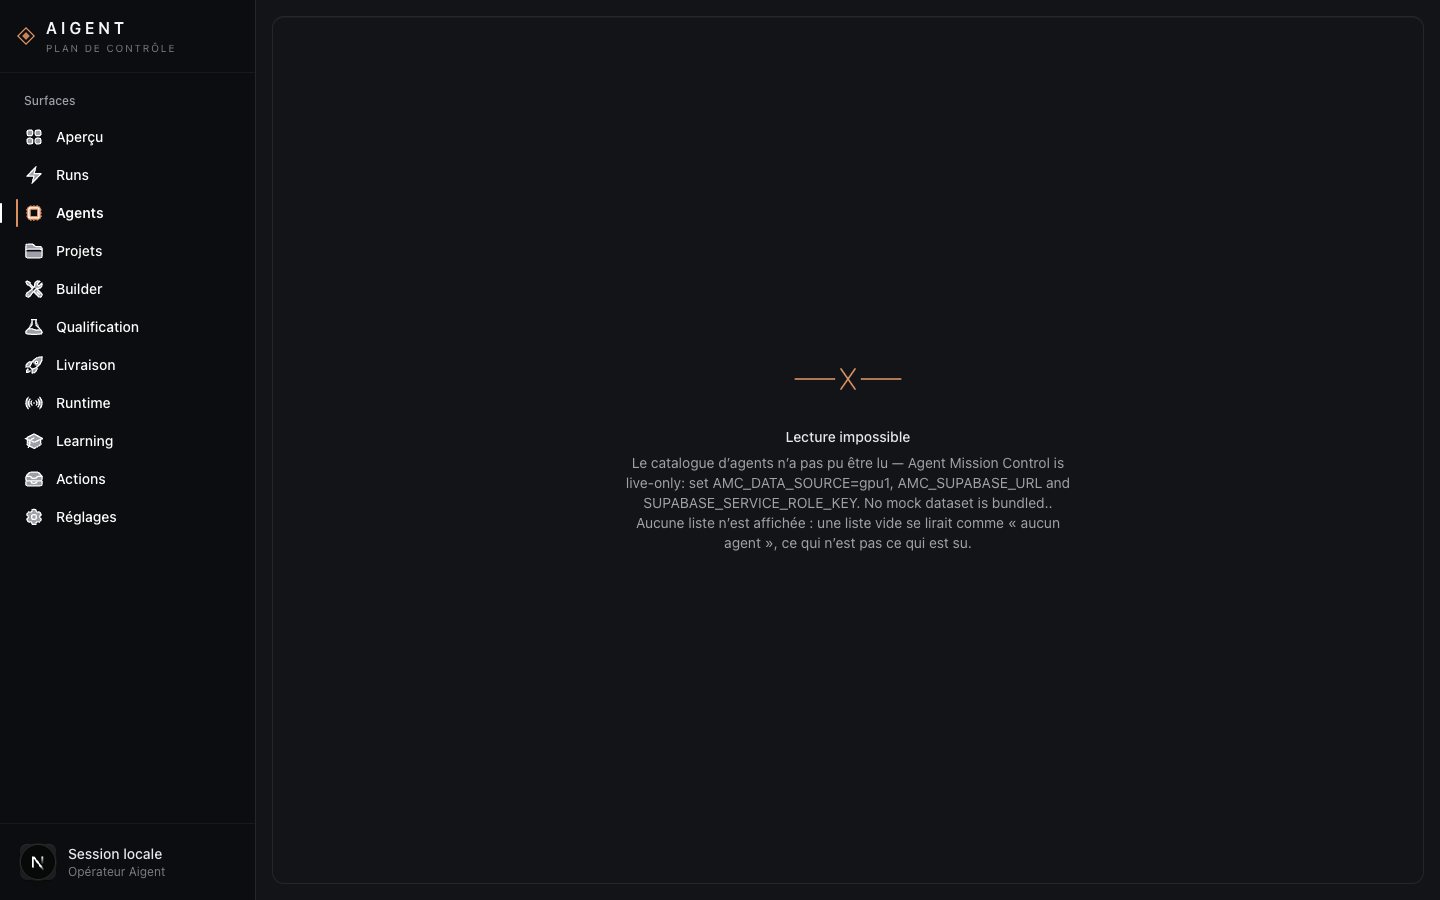
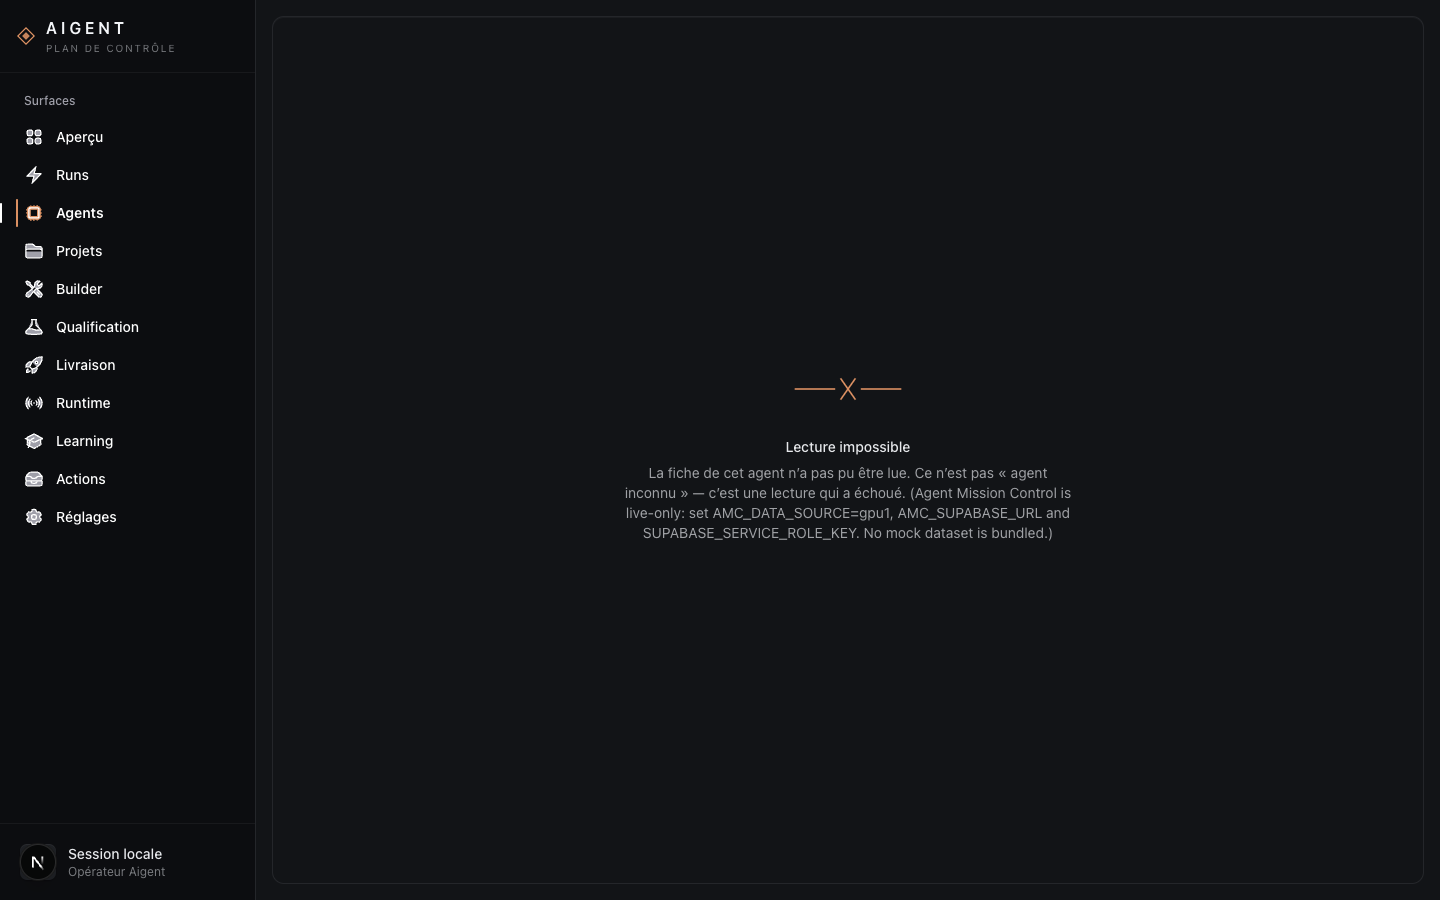
chore(visual-review): finalize R3 manifest and explicit agent route
Refresh the agent-detail capture on a concrete detail URL, regenerate the contact sheet, and align manifest/review with inspected files, full SHA provenance, and post-capture validations.

Changed region(s): [[0.4375, 0.4667, 0.75, 0.6222], [0.5625, 0.4044, 0.625, 0.4356]]

diff --git a/docs/visual-reviews/aigent-visual-composition-004-r3/REVIEW.md b/docs/visual-reviews/aigent-visual-composition-004-r3/REVIEW.md
@@ -2,7 +2,7 @@
 
 ## Contexte de capture
 
-- Worktree source: ` /Users/adrienbeyondcrypto/Aigent-r3-capture`
+- Worktree source: `/Users/adrienbeyondcrypto/Aigent-r3-capture`
 - SHA capturé: `f146c58f2b7bc8ff06b7022245f973e2b08c0105`
 - Branche PR cible: `mission/aigent-visual-composition-004` (PR #76)
 - Serveur de capture: `http://127.0.0.1:3997`
@@ -30,7 +30,7 @@
 - `/`: état `Lecture impossible` affiché.
 - `/runtime?tab=telemetry`: section télémétrie visible, avec indisponibilités de données.
 - `/agents`: état `Lecture impossible` affiché.
-- fiche agent: route sélectionnée automatiquement non disponible (retombe sur ` /agents` dans ce contexte live-only).
+- fiche agent: route explicitement vérifiée `/agents/copilot-gold-trading-high-risk-copilot-draft-57917f07-bd916fd8` (état `Lecture impossible` attendu en mode live-only sans backend).
 - `/learning`: écran d'erreur rendu interrompu (`digest` visible).
 - `/delivery`: état `Lecture impossible` affiché.
 - `/qualification`: état `Lecture impossible` affiché.
@@ -42,6 +42,6 @@
 
 ## Validation technique post-capture
 
-- HTTP (`curl`): `200` sur `/runs`, `/`, `/runtime?tab=telemetry`, `/agents`, `/learning`, `/delivery`, `/qualification`.
+- HTTP (`curl`): `200` sur `/runs`, `/`, `/runtime?tab=telemetry`, `/agents`, `/agents/copilot-gold-trading-high-risk-copilot-draft-57917f07-bd916fd8`, `/learning`, `/delivery`, `/qualification`.
 - Console post-capture: `5` erreurs (`console-errors-post-capture.json`), principalement liées au mode live-only sans backend (`AMC_DATA_SOURCE/AMC_SUPABASE_URL/SUPABASE_SERVICE_ROLE_KEY`) et au rendu interrompu de `/learning`.
 
